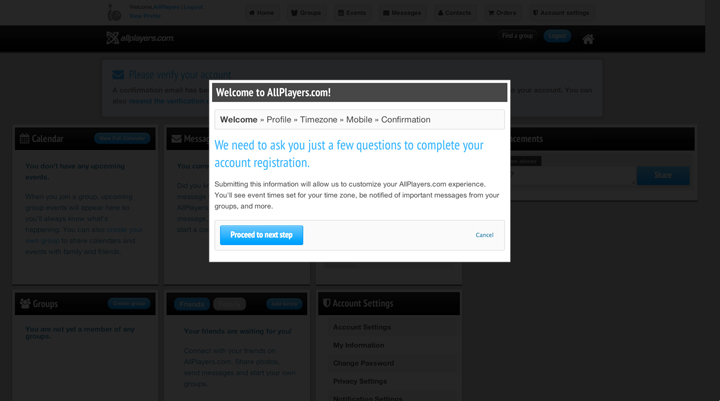
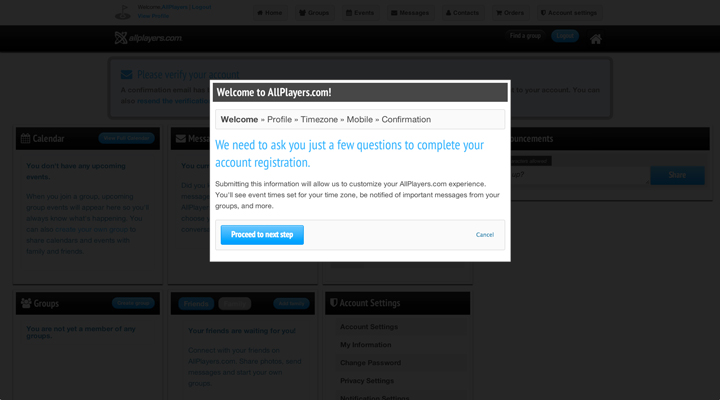
[#53420683] Fixes some text and replaces some images with slightly higher resolution ones that make it look a ton better.

diff --git a/knowledge-base/basic-user-knowledge/pages/1-create-account/post-1-create-an-account.html b/knowledge-base/basic-user-knowledge/pages/1-create-account/post-1-create-an-account.html
@@ -41,10 +41,10 @@ user_help_videos: [basic_user_videos]
   <div class="row">
     <div class="six columns">
       <p>After completing the form, you will be redirected to your new user home page.</p>
-      <p>A dialog box will pop up on your screen, asking you a few questions to complete your registration.</p>
+      <p>A dialog box will pop up on your screen, asking you a few questions to verify your information and account settings.</p>
       <p>Proceed through the screens:</p>
       <ol class="content">
-        <li>Verify your profile information.</li>
+        <li>Verify that your profile information is correct.</li>
         <li>Choose your local time zone. If in doubt, choose the time zone closest to your location with the same rules for daylight saving time.</li>
         <li>Enter your mobile phone number if you would like to receive notifications on your mobile phone.</li>
         <li>Review your information and when you're done, click <b>Finish</b>.</li>
@@ -64,9 +64,10 @@ user_help_videos: [basic_user_videos]
   <h4>Verify your account</h4>
   <div class="row">
     <div class="six columns">
-      <p>On your new home page, you will see a message regarding account verification. To complete account registration and use many site features, you must verify your account.</p>
-      <p>To begin verification, check your email for a message from AllPlayers.com. If you do not see this email in your inbox, check your spam folder. This message contains a link you will click to verify your account.</p>
-      <p>When you click that link, the AllPlayers.com website will open in your browser, and your account will be verified. That's it!</p>
+      <p>On your new home page, you will see a message regarding account verification. In order to gain access to many of the features on our site, you must verify your account.</p>
+      <p><i>You do not need to be verified in order to register with an organization.</i></p>
+      <p>To verify your account, an email was sent to you from AllPlayers.com. If you do not see this email in your inbox, check your spam folder. This message contains a link you will click to verify your account.</p>
+      <p>Click on the link in the email and the AllPlayers.com website will open in your browser with your account verified. That's it!</p>
     </div>
     <div class="six columns">
       <img class="kbImage" src="images/knowledge/user_guide-verify-accnt.jpg">
